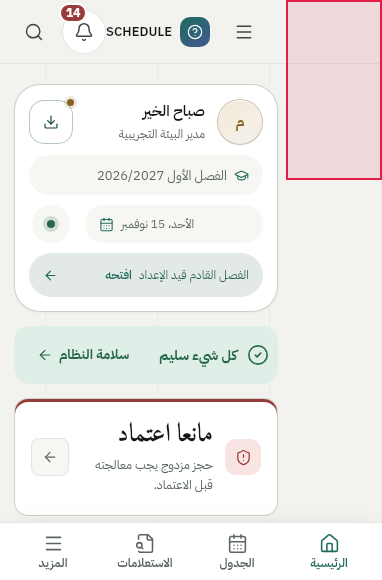
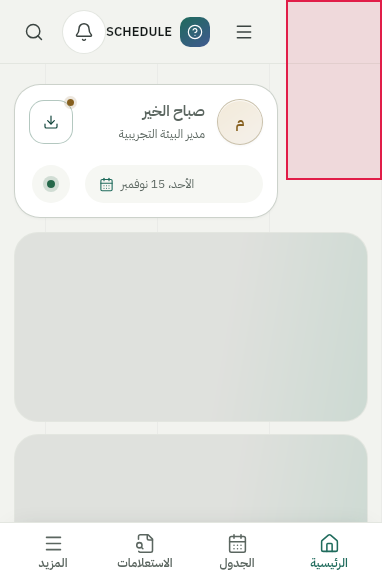
ركن الودجت: استعادة كشف 720×900 وعرضي حتى 960، وحجز أول كتلة وحدها بدل العمود العائم
Claude-Session: https://claude.ai/code/session_019bEdamhEsiv5x6FQxShb3K

diff --git a/src/styles/55-duo-adaptive.css b/src/styles/55-duo-adaptive.css
@@ -63,8 +63,8 @@
    تسبق كتلة الكتاب أدناه عمداً: في الكتاب النافذةُ على الصفحة اليسرى (لا ودجت فيها) وقاعدتُه أولى.
    الاستعلامات الثلاثة هي نفسها في 01-foundation.css (يحرس تطابقَها tests/duo-widget-css-audit.ts).
    ========================================================================== */
-@media screen and (orientation:portrait) and (max-width:700px) and (min-height:360px),
-       screen and (orientation:landscape) and (min-width:540px) and (max-width:1000px) and (min-height:300px) and (max-height:800px) and (max-aspect-ratio:17/10),
+@media screen and (orientation:portrait) and (max-width:720px) and (min-height:360px),
+       screen and (orientation:landscape) and (min-width:540px) and (max-width:1000px) and (min-height:300px) and (max-height:960px) and (max-aspect-ratio:17/10),
        screen and (horizontal-viewport-segments:2){
   /* النوافذ المركزية: الخلفية بعرض الشاشة (تعتّم وتحجب اللمس)، والنافذة وحدها يسار الودجت. */
   :is([class*="backdrop"],[class*="scrim"]):has(>[role="dialog"],>[aria-modal="true"]){
@@ -87,14 +87,14 @@
   /* رؤوسٌ لاصقة تقف قرب أعلى الشاشة عند التمرير (top ≤ 84px): تبدأ يسار الودجت. */
   .insight-page-head,.intelligence-page .insight-page-nav,.intelligence-scenes,.location-admin-tabs{margin-right:var(--duo-widget-inset)}
 }
-@media screen and (orientation:portrait) and (max-width:700px) and (min-height:360px),
-       screen and (orientation:landscape) and (min-width:540px) and (max-width:1000px) and (min-height:300px) and (max-height:800px) and (max-aspect-ratio:17/10),
+@media screen and (orientation:portrait) and (max-width:720px) and (min-height:360px),
+       screen and (orientation:landscape) and (min-width:540px) and (max-width:1000px) and (min-height:300px) and (max-height:960px) and (max-aspect-ratio:17/10),
        screen and (horizontal-viewport-segments:2){
   /* الدخول طولياً: أول سطرٍ في بطاقة الدخول يبدأ يسار الودجت؛ والبطاقة نفسها تمتدّ تحتها. */
   .apex-login-access .apex-access-head{margin-right:var(--duo-widget-inset)}
 }
-@media screen and (orientation:portrait) and (max-width:700px) and (min-height:360px),
-       screen and (orientation:landscape) and (min-width:540px) and (max-width:1000px) and (min-height:300px) and (max-height:800px) and (max-aspect-ratio:17/10),
+@media screen and (orientation:portrait) and (max-width:720px) and (min-height:360px),
+       screen and (orientation:landscape) and (min-width:540px) and (max-width:1000px) and (min-height:300px) and (max-height:960px) and (max-aspect-ratio:17/10),
        screen and (horizontal-viewport-segments:2){
   /* الدخول: الكلمة التعريفية والعنوان يبدآن يسار الودجت. */
   .apex-login-kicker,
@@ -296,8 +296,8 @@
    01-foundation.css (يحرس تطابقَها tests/duo-widget-css-audit.ts). ركن الودجت سجلُّه في
    docs/IPHONE-DUO-FINAL-ACCEPTANCE.md.
    ========================================================================== */
-@media screen and (orientation:portrait) and (max-width:700px) and (min-height:360px),
-       screen and (orientation:landscape) and (min-width:540px) and (max-width:1000px) and (min-height:300px) and (max-height:800px) and (max-aspect-ratio:17/10),
+@media screen and (orientation:portrait) and (max-width:720px) and (min-height:360px),
+       screen and (orientation:landscape) and (min-width:540px) and (max-width:1000px) and (min-height:300px) and (max-height:960px) and (max-aspect-ratio:17/10),
        screen and (horizontal-viewport-segments:2){
   /* الشريط العلوي: أول زرٍّ (القائمة) يبدأ يسار الودجت لا تحتها، والشريط نفسه يمتدّ تحتها. */
   .mobile-topbar{padding-right:calc(var(--s3) + var(--duo-widget-inset))}
@@ -305,19 +305,15 @@
   html .smart-guide-fab,html .smart-guide-fab:not(.icon-only),html .smart-guide-fab.icon-only{right:calc(61px + var(--duo-widget-inset))}
   /* الدرج الجانبي المفتوح، والفهرس (صفحة الكتاب اليمنى): يبتعد عمودُه عن الحافة اليمنى؛ الخلفية تمتدّ تحته. */
   .sidebar{padding-right:calc(env(safe-area-inset-right) + var(--duo-widget-inset))}
-  /* صفحة العمل: عمودٌ عائم يحجز الركن ما دام الركن في الشاشة، وما تحته يعود لعرضه كاملاً. يضيّق أسطرَ النص
-     وصناديقَ الشبكة وflex التي تبدأ في الركن بمحاذاته، وتبقى خلفيات البطاقات ممتدّةً تحت الودجت. */
-  .content-frame::before{
-    content:"";float:right;pointer-events:none;
-    width:max(0px,calc(var(--duo-widget-inset) - var(--gutter)));
-    height:max(0px,calc(var(--duo-widget-h) + var(--duo-widget-gap) - var(--topbar-h) - var(--s6)));
-  }
+  /* صفحة العمل: أول كتلةٍ في الصفحة (رأس الصفحة/بطاقة العنوان) وحدها تبتعد عن الودجت، وما بعدها يعود لعرضه كاملاً.
+     (كان عمودٌ عائم يضيّق العمود كله لأن الحاوية flex، وهو ما لا نريده.) */
+  .content-frame>:first-child>:first-child{margin-right:max(0px,calc(var(--duo-widget-inset) - var(--gutter)))}
   /* الرسائل العابرة: العمود يبدأ يسار الودجت. */
   .toast-layer{padding-right:calc(var(--s3) + var(--duo-widget-inset))}
 }
-/* الكتاب: صفحة العمل يسار الفهرس، والودجت فوق الفهرس وحده، فلا عمودَ عائماً في صفحة العمل. */
+/* الكتاب: صفحة العمل يسار الفهرس، والودجت فوق الفهرس وحده، فلا حجز في صفحة العمل. */
 @media screen and (min-width:721px) and (max-width:1000px) and (min-height:520px) and (max-height:960px) and (orientation:landscape){
-  .content-frame::before{content:none}
+  .content-frame>:first-child>:first-child{margin-right:0}
   /* بطاقة الدخول على الصفحة اليسرى في الكتاب: لا ودجت فوقها. */
   .apex-login-access .apex-access-head{margin-right:0}
 }

diff --git a/src/styles/01-foundation.css b/src/styles/01-foundation.css
@@ -454,17 +454,17 @@ time,.num,.code-chip{
  *   --duo-widget-h      clamp(64px,31vh,270px)
  *   --duo-widget-inset  w + gap: الإزاحة اليمنى الفيزيائية للمحتوى
  * صفرٌ خارج الدوو. الكشف عامٌّ بلا عروضٍ دقيقة (التطبيق ≈457×678 ليس مقاساً معروفاً) بأحد ثلاثة استعلامات:
- *   1) طوليٌّ بعرض ≤700 وارتفاع ≥360 (أيّ ارتفاع: التطبيق بلا أشرطة Safari أطول). فiPhone الطولي (390×844…) يُحجز له الركن
+ *   1) طوليٌّ بعرض ≤720 وارتفاع ≥360 (أيّ ارتفاع: التطبيق بلا أشرطة Safari أطول). فiPhone الطولي (390×844…) يُحجز له الركن
  *      أيضاً: لا يُفصَل عن الدوو بالمقاس، والافتراضُ الآمن أن يُحجز.
- *   2) عرضيٌّ بعرض 540–1000 وارتفاع 300–800 ونسبة ≤ 17:10 (594×368، 780×470، 867×669، 951×585؛ لا iPhone: ≥16:9، ولا iPad: ≥1024)
+ *   2) عرضيٌّ بعرض 540–1000 وارتفاع 300–960 ونسبة ≤ 17:10 (594×368، 780×470، 867×669، 951×585؛ لا iPhone: ≥16:9، ولا iPad: ≥1024)
  *   3) شاشتان فعلاً (المفصل): يكشفها المتصفح وحده، ولم تُجرَّب على جهاز.
  * هندسة الودجت في العرضي غير مُتحقَّق منها على جهاز حقيقي: يُحجز المستطيل نفسه عند اليمين الفيزيائي. */
 :root{
   --duo-widget-w:0px;--duo-widget-gap:0px;--duo-widget-h:0px;
   --duo-widget-inset:calc(var(--duo-widget-w) + var(--duo-widget-gap));
 }
-@media screen and (orientation:portrait) and (max-width:700px) and (min-height:360px),
-       screen and (orientation:landscape) and (min-width:540px) and (max-width:1000px) and (min-height:300px) and (max-height:800px) and (max-aspect-ratio:17/10),
+@media screen and (orientation:portrait) and (max-width:720px) and (min-height:360px),
+       screen and (orientation:landscape) and (min-width:540px) and (max-width:1000px) and (min-height:300px) and (max-height:960px) and (max-aspect-ratio:17/10),
        screen and (horizontal-viewport-segments:2){
   :root{--duo-widget-w:96px;--duo-widget-gap:8px;--duo-widget-h:clamp(64px,31vh,270px)}
 }

diff --git a/tests/duo-widget-css-audit.ts b/tests/duo-widget-css-audit.ts
@@ -49,10 +49,10 @@ function evalQuery(q: string, { w, h }: Dims): boolean | "segments" {
 const hit = (w: number, h: number) => queries.some((q) => evalQuery(q, { w, h }) === true);
 const DUO: [number, number][] = [[382, 580], [470, 780], [594, 368], [669, 867], [951, 585], [457, 678], [457, 760]];
 /* تطبيقٌ بارتفاعٍ كامل: يجب أن يطابق أيضاً. */
-const DUO_TALL: [number, number][] = [[382, 720], [382, 780], [382, 844], [470, 900], [440, 660], [480, 720], [430, 932], [390, 844], [669, 1000], [951, 700]];
+const DUO_TALL: [number, number][] = [[382, 720], [382, 780], [382, 844], [470, 900], [440, 660], [480, 720], [430, 932], [390, 844], [669, 1000], [951, 700], [720, 900], [951, 669], [951, 800]];
 const DUO_BOTH = DUO.flatMap(([w, h]) => [[w, h], [h, w]] as [number, number][]);
 const missed = [...DUO_BOTH, ...DUO_TALL].filter(([w, h]) => !hit(w, h));
-check(missed.length === 0, `الاستعلامات تطابق الدوو طولياً وعرضياً (14 مقاساً + 10 بارتفاعٍ كامل)${missed.length ? " — لا تطابق: " + missed.map((s) => s.join("×")).join("، ") : ""}`);
+check(missed.length === 0, `الاستعلامات تطابق الدوو طولياً وعرضياً (14 مقاساً + 13 بارتفاعٍ كامل ومنها 720×900 و951×669 و951×800)${missed.length ? " — لا تطابق: " + missed.map((s) => s.join("×")).join("، ") : ""}`);
 const NOT_DUO: [number, number][] = [[844, 390], [932, 430], [667, 375], [744, 1133], [768, 1024],
   [810, 1080], [820, 1180], [834, 1194], [1024, 768], [1024, 1366], [1180, 820], [1366, 1024], [1280, 800], [1440, 900], [1920, 1080]];
 const wrongly = NOT_DUO.filter(([w, h]) => hit(w, h));

diff --git a/apple/www/index.html b/apple/www/index.html
@@ -27,8 +27,8 @@
   button:active { opacity: .7; }
   @media (prefers-reduced-motion: no-preference) { button { transition: opacity .15s; } }
   /* ركن الودجت (iPhone Duo): الاستعلامات نفسها في src/styles/01-foundation.css. المحتوى هنا مركزيّ، فتُزاح حشوته اليمنى الفيزيائية. */
-  @media screen and (orientation:portrait) and (max-width:700px) and (min-height:360px),
-         screen and (orientation:landscape) and (min-width:540px) and (max-width:1000px) and (min-height:300px) and (max-height:800px) and (max-aspect-ratio:17/10),
+  @media screen and (orientation:portrait) and (max-width:720px) and (min-height:360px),
+         screen and (orientation:landscape) and (min-width:540px) and (max-width:1000px) and (min-height:300px) and (max-height:960px) and (max-aspect-ratio:17/10),
          screen and (horizontal-viewport-segments:2) { body { padding-right: 104px; } }
 </style>
 </head>

diff --git a/apple/www/offline.html b/apple/www/offline.html
@@ -27,8 +27,8 @@
   button:active { opacity: .7; }
   @media (prefers-reduced-motion: no-preference) { button { transition: opacity .15s; } }
   /* ركن الودجت (iPhone Duo): الاستعلامات نفسها في src/styles/01-foundation.css. المحتوى هنا مركزيّ، فتُزاح حشوته اليمنى الفيزيائية. */
-  @media screen and (orientation:portrait) and (max-width:700px) and (min-height:360px),
-         screen and (orientation:landscape) and (min-width:540px) and (max-width:1000px) and (min-height:300px) and (max-height:800px) and (max-aspect-ratio:17/10),
+  @media screen and (orientation:portrait) and (max-width:720px) and (min-height:360px),
+         screen and (orientation:landscape) and (min-width:540px) and (max-width:1000px) and (min-height:300px) and (max-height:960px) and (max-aspect-ratio:17/10),
          screen and (horizontal-viewport-segments:2) { body { padding-right: 104px; } }
 </style>
 </head>
